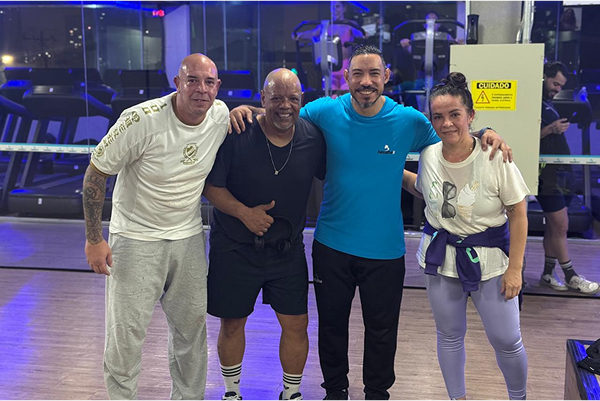
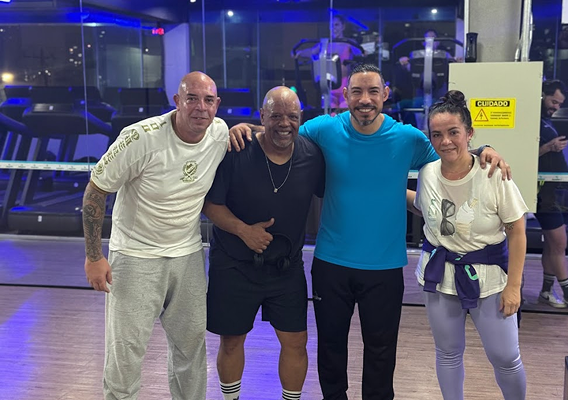
fix: update comments in App.tsx for clarity and organization

diff --git a/src/App.tsx b/src/App.tsx
@@ -17,19 +17,26 @@ import { useState } from "react";
 
 // todo list:
 // safari support // deixa baixo
-// talk to Joao about home. how can we show to alex both pages quickly? same thing with 'packages' page!
-// edit-user button should be "save changes" instead of "edit user" // falar com o fillipe
+// edit-user button should be "save changes" instead of "edit user" // falar com o fillipe (ok)
+
+//text orange in "all ages"
+
+// center text at site
+// centered services cards must have 
+
 
 // institucional/prototipo:
-// fabio mais para a direita // suave ajeita
-// texto no inicio deve apresentar que site também são para idosos (mobile) // decidir texto com os caras
-
-// tela logado:
-// datas formatadas no home // isso o joao vai fazer
+// fabio mais para a direita // make it a div 
 
 // todo: 
-// personal calendar
-// data nos cards de assinatura
+// fix personal schedule
+// include time and date on rescheduling
+// show loading state while an appointment's rescheduling is being accepted
+// swap one KPI on the dashboard
+// replace the large calendar with a weekly view in personal
+// organize folders (division between components of specific pages )
+// find gaps
+// study if code is following best practices
 
 
 function App() {
